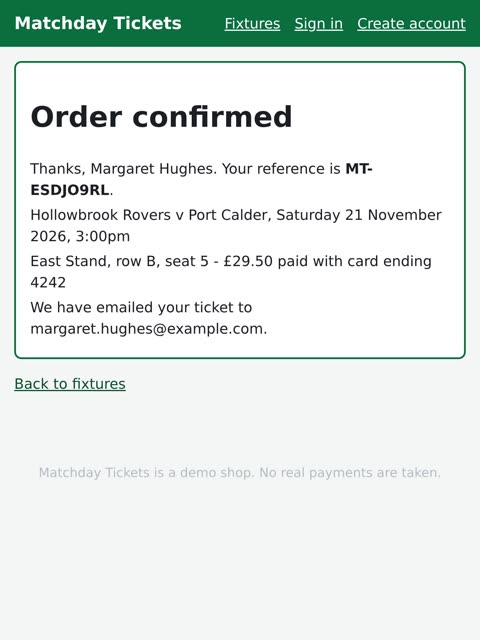
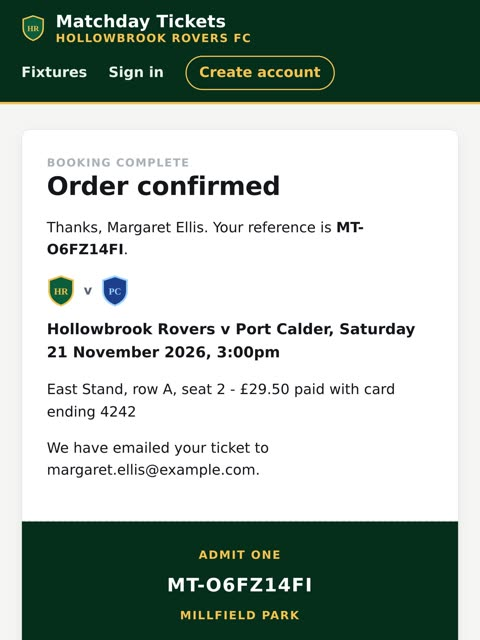
chore: add desktop walkthrough with report tour and reporting overview

diff --git a/templates/report.html b/templates/report.html
@@ -47,7 +47,7 @@
   summary { cursor: pointer; color: var(--muted); }
   .evidence { border-left: 3px solid var(--line); padding: 4px 0 4px 12px; margin: 10px 0; }
   .shots { display: flex; gap: 8px; flex-wrap: wrap; margin-top: 6px; }
-  .shots img { width: 160px; height: auto; border: 1px solid var(--line); border-radius: 6px; }
+  .shots img { height: 150px; width: auto; max-width: 260px; object-fit: cover; object-position: top; border: 1px solid var(--line); border-radius: 6px; }
   table { width: 100%; border-collapse: collapse; background: var(--panel); border: 1px solid var(--line); border-radius: 10px; overflow: hidden; }
   th, td { text-align: left; padding: 8px 10px; border-bottom: 1px solid var(--line); vertical-align: top; }
   th { color: var(--muted); font-weight: 600; font-size: 0.85rem; }

diff --git a/docs/sample-journal.md b/docs/sample-journal.md
@@ -1,8 +1,6 @@
 # Sample run: Margaret on checkout
 
-One session folder from a real run of the five built-in personas against the demo ticket shop (`/personaqa:run james,margaret,priya,tomasz,chaos checkout`). Everything below was written by PersonaQA: the journal by the persona agent, the table and issues by the browser server.
-
-![Margaret's run](media/walkthrough.gif)
+One session folder from a real run of the five built-in personas against the demo ticket shop (`/personaqa:run james,margaret,priya,tomasz,chaos checkout`). Everything below was written by PersonaQA: the journal by the persona agent, the table, timings and screenshots by the browser server. For a walkthrough of another persona's run and the report, see the [GIF in the README](../README.md).
 
 ## journal.md
 
@@ -14,52 +12,54 @@ One session folder from a real run of the five built-in personas against the dem
 | Device | iPad (gen 7), touch screen, fast connection, text enlarged to 150% |
 | Mission | Buy one adult ticket for Saturday's match and get to the confirmation page. |
 | Outcome | **success** (mission success: URL contains "/order/confirmed" and "Order confirmed" is visible) |
-| Steps | 13 |
-| Longest wait | 18.5s |
+| Steps | 17 |
+| Longest wait | 18.6s |
 | Issues recorded | 3 |
 
 #### Journal
 
-I accepted the cookie banner, which covered the Saturday match link, and chose Hollowbrook Rovers v Port Calder on Saturday 21st. The seat page took 18 seconds to load. The first seat I chose, row A seat 1, was said to be unavailable even though the map showed it as available, and I was sent back to the fixtures list. I went back in, chose row B seat 5, and Adult was already selected at £27.00. I entered my name and email. My card number, typed with spaces, was cut off after 16 characters, so I retyped it without spaces. The CVC box has no proper label. The page showed no total before I pressed Pay now. The confirmation then said £29.50 paid, which is £2.50 more than the £27.00 I saw, and I am not happy about that. I did reach the confirmation page, reference MT-ESDJO9RL.
+I accepted the cookie banner and chose Saturday's match, Port Calder on 21 November. The seat page was slow, 18 seconds the first time. I tapped North Stand row A seat 1 and was sent back to the fixtures list with "Sorry, that seat is no longer available". The taken seats are only a slightly paler green, so I could not tell them apart. I went back in and chose East Stand row A seat 2. Checkout had Adult £27.00 selected. I typed my details. The card number with spaces was cut off after "4242 4242 4242 4", so I retyped it without spaces. I pressed Pay now and reached "Order confirmed". It said I had paid £29.50, but I had only ever seen £27.00 and no fee or total before paying. I would want to phone someone about that extra £2.50.
 
 ## issues.json
 
 Recorded by Margaret as they happened; the server added the step, URL and screenshot.
 
-**medium** · step 3 · Seat offered as available is rejected, sent to fixtures
+**medium** · step 8 · Unavailable seats only slightly paler green; picking one drops you to fixtures
 
-- What happened: On the seat page, East Stand row A seat 1 was listed as available (£27.00). Tapping it sent me back to the fixtures list with "Sorry, that seat is no longer available." The seat page also took 18.5s to load.
-- Expected: Unavailable seats marked as such, and on failure stay on the seat page so I can choose another.
+- What happened: On the seat map, taken seats are a slightly lighter green than available ones, with no label or text. I tapped North Stand row A seat 1 and was sent back to the fixtures list with "Sorry, that seat is no longer available", losing my place and having to reselect the match.
+- Expected: Clear distinction for unavailable seats (greyed, crossed out, labelled), and an error shown on the seat page so I can pick another seat.
 
-**medium** · step 12 · Card number field cuts off spaced number; CVC unlabelled
+**low** · step 16 · Card number field cuts off input when typed with spaces
 
-- What happened: Typing the card as written, 4242 4242 4242 4242, left only "4242 4242 4242 4" in the field. I had to retype without spaces. The CVC box has only a placeholder and no label.
-- Expected: Spaces accepted in card number and the full number kept. Visible label on CVC.
+- What happened: Typing the card number as printed, "4242 4242 4242 4242", left only "4242 4242 4242 4" in the box, silently dropping the last digits. I had to retype without spaces.
+- Expected: Field accepts spaces (or auto-formats) and keeps all 16 digits.
 
-**high** · step 13 · Charged £29.50 but ticket shown as £27.00 with no fee disclosed
+**high** · step 17 · Charged £29.50 though checkout showed £27.00 seat price
 
-- What happened: Checkout showed Adult - £27.00 and no total or fee. The confirmation says £29.50 paid, £2.50 more than I was shown.
-- Expected: Total including any booking fee shown before Pay now.
+- What happened: Checkout showed Adult £27.00 and seat price £27.00, with no total or fee visible before Pay now. The confirmation says £29.50 was paid, so £2.50 unexplained was added.
+- Expected: Any booking fee and a final total shown clearly before I pay.
 
-<img src="media/margaret-fee.jpg" alt="Order confirmation showing £29.50 paid" width="320">
+<img src="media/margaret-fee.jpg" alt="Order confirmation on an iPad showing £29.50 paid" width="320">
 
 ## actions.log (excerpt)
 
 Every action with how long the page took to respond, and the control's role and name as Margaret saw it. These lines are what `/personaqa:test` turns into Playwright locators.
 
 ```
-+   5.0s  step   1  tap e11 link "ok" (0.3s) http://127.0.0.1:8000/fixtures
-+  25.0s  step   2  tap e7 link "Choose seats for Hollowbrook Rovers v Port Calder" (18.5s) http://127.0.0.1:8000/fixtures/2
-+  29.4s  step   3  tap e17 link "1" (0.5s) http://127.0.0.1:8000/fixtures
-+  32.9s  step   3  issue margaret-checkout-1 medium: Seat offered as available is rejected, sent to fixtures
-+  39.6s  step   4  tap e263 link "Choose seats for Hollowbrook Rovers v Port Calder" (6.4s) http://127.0.0.1:8000/fixtures/2
-+  42.2s  step   5  tap e287 link "5" (0.4s) http://127.0.0.1:8000/checkout?seat=377
-+  45.1s  step   6  type e519 textbox "Full name" "Margaret Hughes" (0.6s) http://127.0.0.1:8000/checkout?seat=377
-+  46.2s  step   7  type e520 textbox "Email address" "margaret.hughes@example.com" (0.8s) http://127.0.0.1:8000/checkout?seat=377
-+  50.4s  step   9  type e521 textbox "Card number" "4242 4242 4242 4242" (0.7s) http://127.0.0.1:8000/checkout?seat=377
-+  51.1s  step  10  type e522 textbox "Expiry date (MM/YY)" "12/30" (0.4s) http://127.0.0.1:8000/checkout?seat=377
-+  51.8s  step  11  type e523 textbox (no name) "123" (0.4s) http://127.0.0.1:8000/checkout?seat=377
-+  54.3s  step  12  type e521 textbox "Card number" "4242424242424242" (0.7s) http://127.0.0.1:8000/checkout?seat=377
++   6.0s  step   1  tap e11 link "ok" (0.3s) http://127.0.0.1:8000/fixtures
++  27.9s  step   3  tap e7 link "Choose seats for Hollowbrook Rovers v Port Calder" (18.6s) http://127.0.0.1:8000/fixtures/2
++  33.4s  step   5  tap e77 link "1" (0.4s) http://127.0.0.1:8000/fixtures
++  44.4s  step   7  tap e263 link "Choose seats for Hollowbrook Rovers v Port Calder" (6.5s) http://127.0.0.1:8000/fixtures/2
++  51.1s  step   8  issue margaret-checkout-1 medium: Unavailable seats only slightly paler green; picking one drops you to fixtures
++  57.1s  step   9  tap e272 link "2" (5.9s) http://127.0.0.1:8000/checkout?seat=362
++  61.8s  step  11  type e519 textbox "Full name" "Margaret Ellis" (0.6s) http://127.0.0.1:8000/checkout?seat=362
++  62.9s  step  12  type e520 textbox "Email address" "margaret.ellis@example.com" (0.8s) http://127.0.0.1:8000/checkout?seat=362
++  63.9s  step  13  type e521 textbox "Card number" "4242 4242 4242 4242" (0.7s) http://127.0.0.1:8000/checkout?seat=362
++  64.6s  step  14  type e522 textbox "Expiry date (MM/YY)" "12/30" (0.4s) http://127.0.0.1:8000/checkout?seat=362
++  65.2s  step  15  type e523 textbox (no name) "123" (0.4s) http://127.0.0.1:8000/checkout?seat=362
++  67.3s  step  16  type e521 textbox "Card number" "4242424242424242" (0.7s) http://127.0.0.1:8000/checkout?seat=362
++  69.7s  step  16  issue margaret-checkout-2 low: Card number field cuts off input when typed with spaces
++  76.0s  step  17  tap e524 button "Pay now" (6.1s) http://127.0.0.1:8000/order/confirmed?ref=MT-O6FZ14FI
 ```
 
-The same run produced `run.json` (facts for the coordinator), `a11y.json` (five axe-core scans with page outlines) and a screenshot after every action. The coordinator merged Margaret's issues with the other personas' into the ranked findings in `report.html`.
+The same session folder also holds `run.json` (facts for the coordinator), `a11y.json` (axe-core scans of every new page state, with page outlines) and a screenshot after every action. See [Reading the results](reporting.md) for what happens to it next.

diff --git a/docs/reporting.md b/docs/reporting.md
@@ -1,0 +1,82 @@
+# Reading the results
+
+Every `/personaqa:run` ends with a run folder, a short summary for people in a hurry and a full report for people who want the evidence. The screenshots below come from a real run of the five built-in personas through checkout on the demo ticket shop.
+
+## The run folder
+
+```
+.personaqa/runs/2026-11-15T19-23-53/
+├── summary.md            short Markdown summary, used as the PR comment
+├── report.html           the full report: one self-contained file, open it in any browser
+├── report.json           the same data, for /personaqa:report and /personaqa:test
+├── findings.json         the coordinator's merged findings
+├── a11y.json, ux.json    the inspectors' findings
+├── usage.json            tokens per persona runner
+└── margaret--checkout/   one folder per persona and mission
+    ├── journal.md        first-person account (see the sample journal)
+    ├── issues.json       issues the persona recorded, with step, URL and screenshot
+    ├── run.json          facts: outcome, steps, waits, device, injected events
+    ├── actions.log       every action with timings and the control's role and name
+    ├── a11y.json         axe-core scans of every new page state
+    ├── screenshots/
+    └── trace.zip         Playwright trace, kept for failed runs by default
+```
+
+Facts come from the server (`run.json`, `actions.log`, the trace). Journals are each persona's memory of the run: vivid and useful, but occasionally wrong about a detail. The report keeps the two apart.
+
+Open a trace with `npx playwright show-trace <session folder>/trace.zip` to replay a run step by step.
+
+## summary.md
+
+A few lines for a pull request comment or a chat message: how many personas reached the goal, a table of outcomes, the top findings with how many personas hit each, a line per inspector, and the path to the full report. The [GitHub workflows](github-actions.md) post it automatically.
+
+## report.html
+
+### Findings
+
+![Findings tab](media/report-findings.jpg)
+
+The coordinator merges issues from every persona into findings: "Pay hidden under the cookie banner" and "couldn't find the Pay button" from two different people become one problem. Findings are ranked by severity multiplied by the number of personas affected, with a boost when a persona failed or gave up because of it. Filter by severity or by persona to see, for example, only what Priya (keyboard only) ran into.
+
+The tiles at the top count sessions, outcomes and findings. The token tile is what Claude Code reported for the persona runners; the billed cost of a run is in your usage page or `claude -p --output-format json`.
+
+### Evidence
+
+![A finding with its evidence expanded](media/report-evidence.jpg)
+
+Each finding expands to the issues behind it: which persona, at which step, on which URL, what happened, what they expected, and the screenshot taken at that moment. Every finding has an `ISSUE-n` id used by the commands below.
+
+### Sessions
+
+![Sessions tab](media/report-sessions.jpg)
+
+One row per persona and mission (outcome, steps, longest wait, device), then each journal with the last screenshots of the run. Outcomes are decided by the browser server: `success` when the mission's success rule was met, `abandoned` when the persona gave up, `limit` when a step or time limit ran out.
+
+### Accessibility
+
+![Accessibility tab](media/report-accessibility.jpg)
+
+The accessibility inspector merges the axe-core scans the server ran on every page state a persona reached, then adds what automation cannot judge from the evidence: meaningless alt text, fields named only by a placeholder, unclear errors, focus a keyboard user could not see. Severity goes up when a persona actually suffered on the same element. Automated and evidence-based checks cover only part of WCAG; they complement an audit with assistive technology users, they do not replace one.
+
+### UX
+
+![UX tab](media/report-ux.jpg)
+
+The UX inspector reviews journals, action logs and screenshots against Nielsen's ten heuristics, counting the retries, back presses and waits in `actions.log` rather than guessing, and names the layer where the fix belongs.
+
+## Acting on findings
+
+| Step | Command |
+|------|---------|
+| Reopen or rebuild the latest report | `/personaqa:report` |
+| Confirm a real problem | `/personaqa:report confirm ISSUE-1` |
+| Dismiss one you accept, with a reason; later runs hide it | `/personaqa:report dismiss ISSUE-4 "brand colours, accepted"` |
+| File confirmed findings as GitHub issues (asks first) | `/personaqa:report file` |
+| Turn a finding into a failing Playwright test | `/personaqa:test ISSUE-1` |
+| Re-run the same persona after the fix | `/personaqa:run margaret checkout` |
+
+Decisions live in `.personaqa/triage.json`. Commit it so the whole team shares them.
+
+## Scoring against planted flaws
+
+If you keep an answer key of deliberate flaws (as the demo app does), `node scripts/score.mjs <run folder> <flaws.yaml>` reports "found X of Y" deterministically, by matching terms in findings, so comparing models or persona sets measures the cast and not the scorer.

diff --git a/README.md b/README.md
@@ -11,7 +11,7 @@ PersonaQA is a Claude Code plugin that gives your app a cast of simulated users.
 
 **PersonaQA finds the problems. Deterministic tests keep them fixed.**
 
-<p align="center"><img src="docs/media/walkthrough.gif" alt="Margaret, on an iPad with large text, buys a ticket: a cookie banner, a rejected seat, a truncated card number and a hidden £2.50 fee are each recorded as issues" width="720"></p>
+<p align="center"><img src="docs/media/walkthrough.gif" alt="Chaos, a desktop persona, buys a ticket: a slow seat map, a sold seat that looked available, a truncated card number, a wiped form and a hidden fee are each recorded as issues, then the ranked report is shown" width="760"></p>
 
 ## Results on a demo app
 
@@ -19,14 +19,14 @@ A small ticket shop was built with 15 deliberate flaws (a cookie banner that hid
 
 | Measure | Result |
 |---------|--------|
-| Planted flaws found | **12 of 15** (8 of 9 usability, 4 of 6 accessibility) |
-| Missed | Two flaws on pages the checkout mission never visits; one that led to the invisible-focus fix below |
-| Wall time | 4.5 minutes, personas in parallel |
-| Billed cost | $1.40 with Sonnet, including both inspectors and the coordinator |
+| Planted flaws found | **13 of 15** (8 of 9 usability, 5 of 6 accessibility) |
+| Missed | The two flaws on pages the checkout mission never visits (sign-in and the date filter) |
+| Personas | Five, run in parallel; four reached the goal, Priya (keyboard only, no visible focus) ran out of steps |
+| Billed cost | About $1.50 with Sonnet, including both inspectors and the coordinator |
 
 Margaret's journal from that run ([the full session](docs/sample-journal.md)):
 
-> The seat page took 18 seconds to load. The first seat I chose, row A seat 1, was said to be unavailable even though the map showed it as available, and I was sent back to the fixtures list. [...] My card number, typed with spaces, was cut off after 16 characters, so I retyped it without spaces. The CVC box has no proper label. The page showed no total before I pressed Pay now. The confirmation then said £29.50 paid, which is £2.50 more than the £27.00 I saw, and I am not happy about that.
+> The seat page was slow, 18 seconds the first time. I tapped North Stand row A seat 1 and was sent back to the fixtures list with "Sorry, that seat is no longer available". The taken seats are only a slightly paler green, so I could not tell them apart. [...] The card number with spaces was cut off after "4242 4242 4242 4", so I retyped it without spaces. I pressed Pay now and reached "Order confirmed". It said I had paid £29.50, but I had only ever seen £27.00 and no fee or total before paying. I would want to phone someone about that extra £2.50.
 
 Scoring is deterministic (`scripts/score.mjs` matches findings against the answer key), so model comparisons measure the cast, not the scorer.
 
@@ -115,6 +115,12 @@ Run output lands in `.personaqa/runs/<run id>/`: one folder per persona and miss
 | Chaos | Desktop, session expiry | Emoji, huge inputs, empty fields, double submits, back mid-flow |
 
 Override or extend any of them in `.personaqa/personas/` (`extends: james`), or generate new ones with `/personaqa:persona new`.
+
+## The report
+
+<p align="center"><img src="docs/media/report-findings.jpg" alt="PersonaQA report: ranked findings with severity, personas affected and suggested fixes" width="760"></p>
+
+Every run ends with `summary.md` (for a pull request comment) and a self-contained `report.html`: findings merged across personas and ranked by severity times the number of people affected, the evidence behind each (who, which step, screenshots), each persona's journal, and Accessibility and UX tabs from the inspectors. From there, confirm or dismiss findings (dismissals are remembered), file them as GitHub issues, or turn one into a Playwright test. See [Reading the results](docs/reporting.md) for a tour.
 
 ## In CI
 

diff --git a/docs/media/short-script.md b/docs/media/short-script.md
@@ -7,11 +7,11 @@ Vertical video, about 50 seconds. Footage: `walkthrough.gif` frames, screenshots
 | 0-3s | Five persona cards flip in: James, Margaret, Priya, Tomasz, Chaos | "I gave my app to five AI users." |
 | 3-8s | Terminal: `/personaqa:run james,margaret,priya,tomasz,chaos checkout`, runs starting in parallel | "Each one is a real person: a device, a connection, how patient they are." |
 | 8-15s | James's phone view, "You waited 8.5s, longer than you would normally put up with" | "James is on a bus with slow 3G. The browser actually throttles him." |
-| 15-22s | Margaret's frames: rejected seat, truncated card number | "Margaret reads everything on an iPad with big text." |
-| 22-28s | Margaret's confirmation: £29.50 paid for a £27.00 ticket | "And she caught a fee the checkout never showed her." |
+| 15-22s | Chaos's frames: rejected seat, truncated card number, wiped form | "Chaos tries to break everything, and the shop keeps breaking first." |
+| 22-28s | Chaos's confirmation: £25.00 paid for a £22.50 seat | "And four of them caught a fee the checkout never showed." |
 | 28-34s | Priya's run: "focused, but nothing on screen shows it" | "Priya only uses a keyboard. The site had hidden where focus was." |
 | 34-42s | `report.html`: ranked findings, Accessibility and UX tabs | "Afterwards, specialist agents review everything and rank what to fix first." |
-| 42-48s | Score card: "12 of 15 planted flaws found" | "I'd hidden fifteen flaws. They found twelve, in four and a half minutes." |
+| 42-48s | Score card: "13 of 15 planted flaws found" | "I'd hidden fifteen flaws. They found thirteen, for about a dollar fifty." |
 | 48-50s | Logo and repo link | "PersonaQA. Link in bio." |
 
 Notes: the persona agents never see the code or the answer key; the success check is done by the browser, not the agent. Say "simulated users" in the caption so nobody mistakes them for real customers.

diff --git a/docs/github-actions.md b/docs/github-actions.md
@@ -54,4 +54,4 @@ The run folder is `.personaqa/runs/<run id>/`; post its `summary.md` wherever yo
 
 ## Cost
 
-Each persona x mission pair is one run. A small PR set is typically two runs; a nightly cast of five personas and four missions is twenty. Every `summary.md` reports the tokens Claude Code recorded for the persona runners; the billed cost of a run is `total_cost_usd` in `claude -p --output-format json`. On the demo app a five-persona checkout run with both inspectors cost about $1.40 with Sonnet. See the README for the cost levers.
+Each persona x mission pair is one run. A small PR set is typically two runs; a nightly cast of five personas and four missions is twenty. Every `summary.md` reports the tokens Claude Code recorded for the persona runners; the billed cost of a run is `total_cost_usd` in `claude -p --output-format json`. On the demo app a five-persona checkout run with both inspectors cost about $1.50 with Sonnet. See the README for the cost levers.
